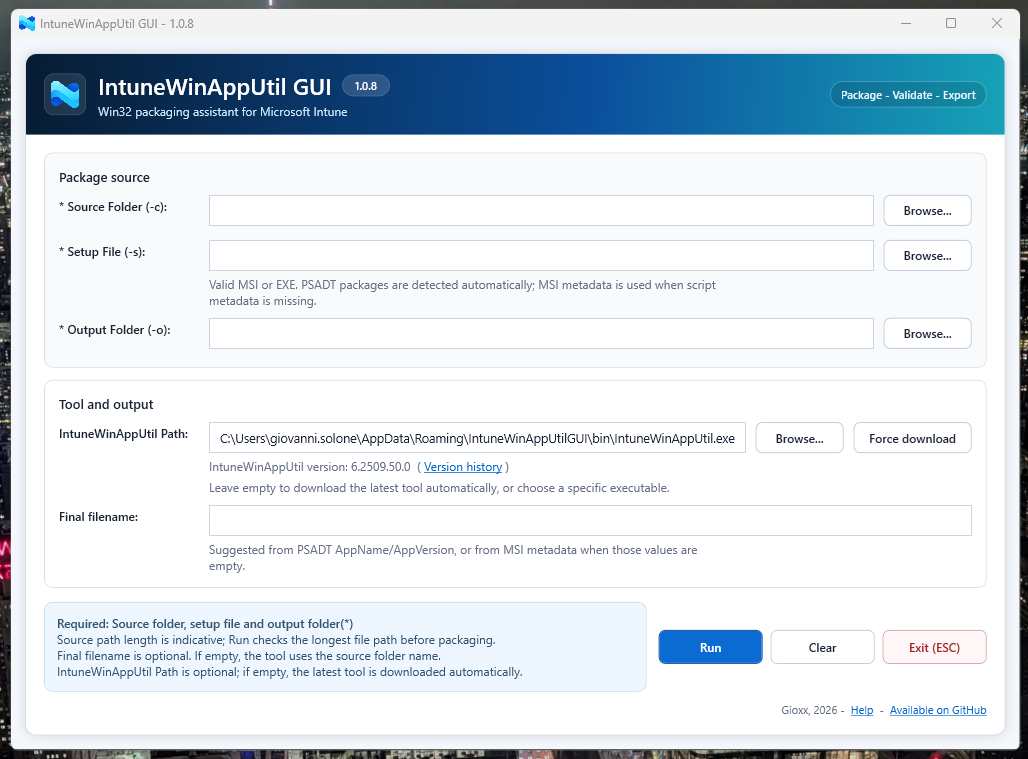
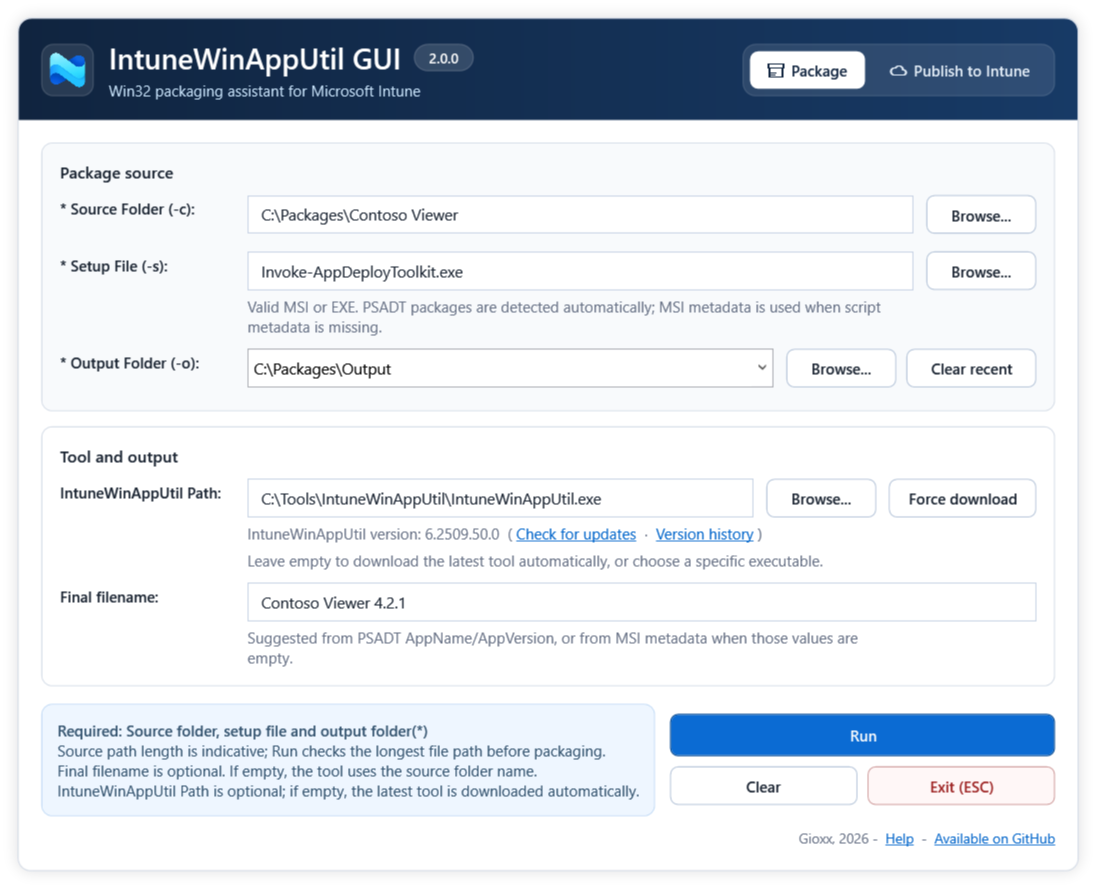
chore: prepare 2.0.0
- Version 2.0.0 in the manifest, the window title and the header.
- Release notes for 2.0.0 (1.2.0 was never published, so they cover both).
- README: Publish to Intune as a tab, sign-in and the alpha app registration,
  Check for updates, the new config.json keys, Ctrl+Tab; KB link moved to
  /Projects/intunewinapputilgui.
- New screenshot of the 2.0 window, with placeholder paths only.

diff --git a/UI/UI.xaml b/UI/UI.xaml
@@ -1,6 +1,6 @@
 <Window xmlns="http://schemas.microsoft.com/winfx/2006/xaml/presentation"
         xmlns:x="http://schemas.microsoft.com/winfx/2006/xaml"
-        Title="IntuneWinAppUtil GUI - 1.2.0"
+        Title="IntuneWinAppUtil GUI - 2.0.0"
         SizeToContent="WidthAndHeight"
         ResizeMode="CanResize"
         MinWidth="700"
@@ -219,7 +219,7 @@
                                     BorderBrush="#3DFFFFFF"
                                     BorderThickness="1"
                                     VerticalAlignment="Center">
-                                <TextBlock Text="1.2.0"
+                                <TextBlock Text="2.0.0"
                                            Foreground="#FFFFFF"
                                            FontSize="11"
                                            FontWeight="SemiBold"

diff --git a/README.md b/README.md
@@ -7,7 +7,7 @@
 
 This tool simplifies the packaging of Win32 apps for Microsoft Intune by providing a modern and easy-to-use WPF interface, including automation, validation, and configuration persistence.
 
-For additional project documentation and practical guidance, see the [IntuneWinAppUtilGUI Knowledge Base](https://kb.gioxx.org/Projects/M365/intunewinapputilgui/).
+For additional project documentation and practical guidance, see the [IntuneWinAppUtilGUI Knowledge Base](https://kb.gioxx.org/Projects/intunewinapputilgui/).
 
 ![screenshot](Assets/screenshot.png)
 
@@ -24,7 +24,8 @@ For additional project documentation and practical guidance, see the [IntuneWinA
 - Live path length indicator for Source/Output folders, with a final max-path check at Run time.
 - Remembers the last 10 output folders in a drop-down (cleared with **Clear recent**); a missing output folder is created at Run time.
 - **Copy path** button in the result panel copies the full path of the new `.intunewin` file.
-- **Publish to Intune** (preview): create a Win32 app, or update an existing one, through Microsoft Graph (see [Publish to Intune](#%EF%B8%8F-publish-to-intune-preview)).
+- **Publish to Intune** (preview), a tab of the main window: create a Win32 app, or update an existing one, through Microsoft Graph (see [Publish to Intune](#%EF%B8%8F-publish-to-intune-preview)).
+- **Check for updates** of `IntuneWinAppUtil.exe`, next to its version; **Version history** lists every release in the KB.
 - Optional update check on startup with a non-blocking UI banner.
 - Sanitizes invalid characters from the output filename.
 - Uses Windows-version-safe UI labels instead of emoji glyphs in the WPF interface.
@@ -106,20 +107,22 @@ To detect the file regardless of its version, leave the call without `-MinimumVe
 
 ## ☁ Publish to Intune (preview)
 
-After packaging, **Upload to Intune...** in the result panel opens the *Publish to Intune* window. **Publish to Intune...** next to Run opens the same window for any `.intunewin`.
+**Publish to Intune** is the second tab of the main window (Ctrl+Tab switches tab). After packaging, **Upload to Intune...** in the result panel opens it with the package just built; **Browse** in the tab picks any `.intunewin`.
 
 - **New app** creates a Win32 app. Name, version, commands and the MSI detection rule are prefilled from the package.
 - **Update existing** searches an app by name, loads its settings and lets you change them, and optionally uploads the new package. With a new package, the settings and the new content are applied together after the upload is committed; if anything fails, the app in Intune is left as it was.
 - Detection rules: MSI product code, file or folder, registry, PowerShell script. Requirement rules set in the portal are kept as they are.
 - **Open in Intune** opens the app in the Intune admin center.
 
+Sign-in: the account block at the top of the tab shows who is signed in and with which app. **Sign in** uses your Microsoft account (through Microsoft's *Microsoft Graph Command Line Tools* app). The arrow next to it can switch to an **app registration** of your own (Client ID and Tenant ID): this is an **alpha** feature. The app registration needs the delegated permission `DeviceManagementApps.ReadWrite.All` with admin consent, *Allow public client flows* set to Yes, and the redirect URIs `ms-appx-web://Microsoft.AAD.BrokerPlugin/<Client ID>` and `http://localhost` under *Mobile and desktop applications*.
+
 Requirements:
 
-- The `Microsoft.Graph.Authentication` module. If it is missing, the window offers to install it for the current user (`Install-Module Microsoft.Graph.Authentication -Scope CurrentUser`).
+- The `Microsoft.Graph.Authentication` module. If it is missing, the tab offers to install it for the current user (`Install-Module Microsoft.Graph.Authentication -Scope CurrentUser`).
 - An account that can manage Intune apps. The *Microsoft Graph Command Line Tools* app needs consent for `DeviceManagementApps.ReadWrite.All` in your tenant, and an administrator may have to grant it.
 - Start the GUI from a PowerShell console window (Windows Terminal or the PowerShell console): the Windows sign-in prompt needs it.
 
-Not handled yet, as the window itself says: assignments, icon, supersedence, dependencies, custom return codes (Intune defaults are used). Set them in the portal through **Open in Intune**.
+Not handled yet, as the tab itself says: assignments, icon, supersedence, dependencies, custom return codes (Intune defaults are used). Set them in the portal through **Open in Intune**.
 
 ---
 
@@ -148,6 +151,7 @@ Not handled yet, as the window itself says: assignments, icon, supersedence, dep
 - It stores the `ToolPath` and the last 10 output folders (`RecentOutputFolders`) so they can be reused at next launch.
 - This file is updated when the GUI closes, after each successful package and when **Clear recent** is clicked.
 - Optional: `UpdateCheckEnabled` (boolean) to enable/disable the update check banner.
+- Publish to Intune: `IntuneSignInMethod` (`Microsoft` or `AppRegistration`), `IntuneClientId` and `IntuneTenantId` for the app registration. They are set from the tab; leave them out to sign in with your Microsoft account.
 
 ---
 
@@ -158,7 +162,7 @@ If the path to `IntuneWinAppUtil.exe` is not provided:
 - The GUI will **automatically download and extract** the latest tool from:
   [https://github.com/microsoft/Microsoft-Win32-Content-Prep-Tool](https://github.com/microsoft/Microsoft-Win32-Content-Prep-Tool/releases/latest)
 - The tool will be stored locally under the `%APPDATA%\IntuneWinAppUtilGUI\bin` folder.
-- You can always choose to download the latest available version by simply clicking the "Force download" button.
+- **Check for updates** compares the selected tool with the latest release and offers the download only when it is newer; **Force download** downloads it again in any case.
 
 ---
 
@@ -166,7 +170,8 @@ If the path to `IntuneWinAppUtil.exe` is not provided:
 
 - Use the **Help** button in the main window to review command-line switches and keyboard shortcuts.
 - Press **ESC** to close the window after confirmation.
-- Press **ENTER** to run the packaging when you are ready.
+- Press **ENTER** to run the packaging when you are ready (Package tab).
+- Press **Ctrl+Tab** to switch between the Package and Publish to Intune tabs.
 - A small tooltip message at the bottom of the GUI provides quick usage hints.
 - Clear and Exit buttons are provided to reset inputs or close the app manually.
 
